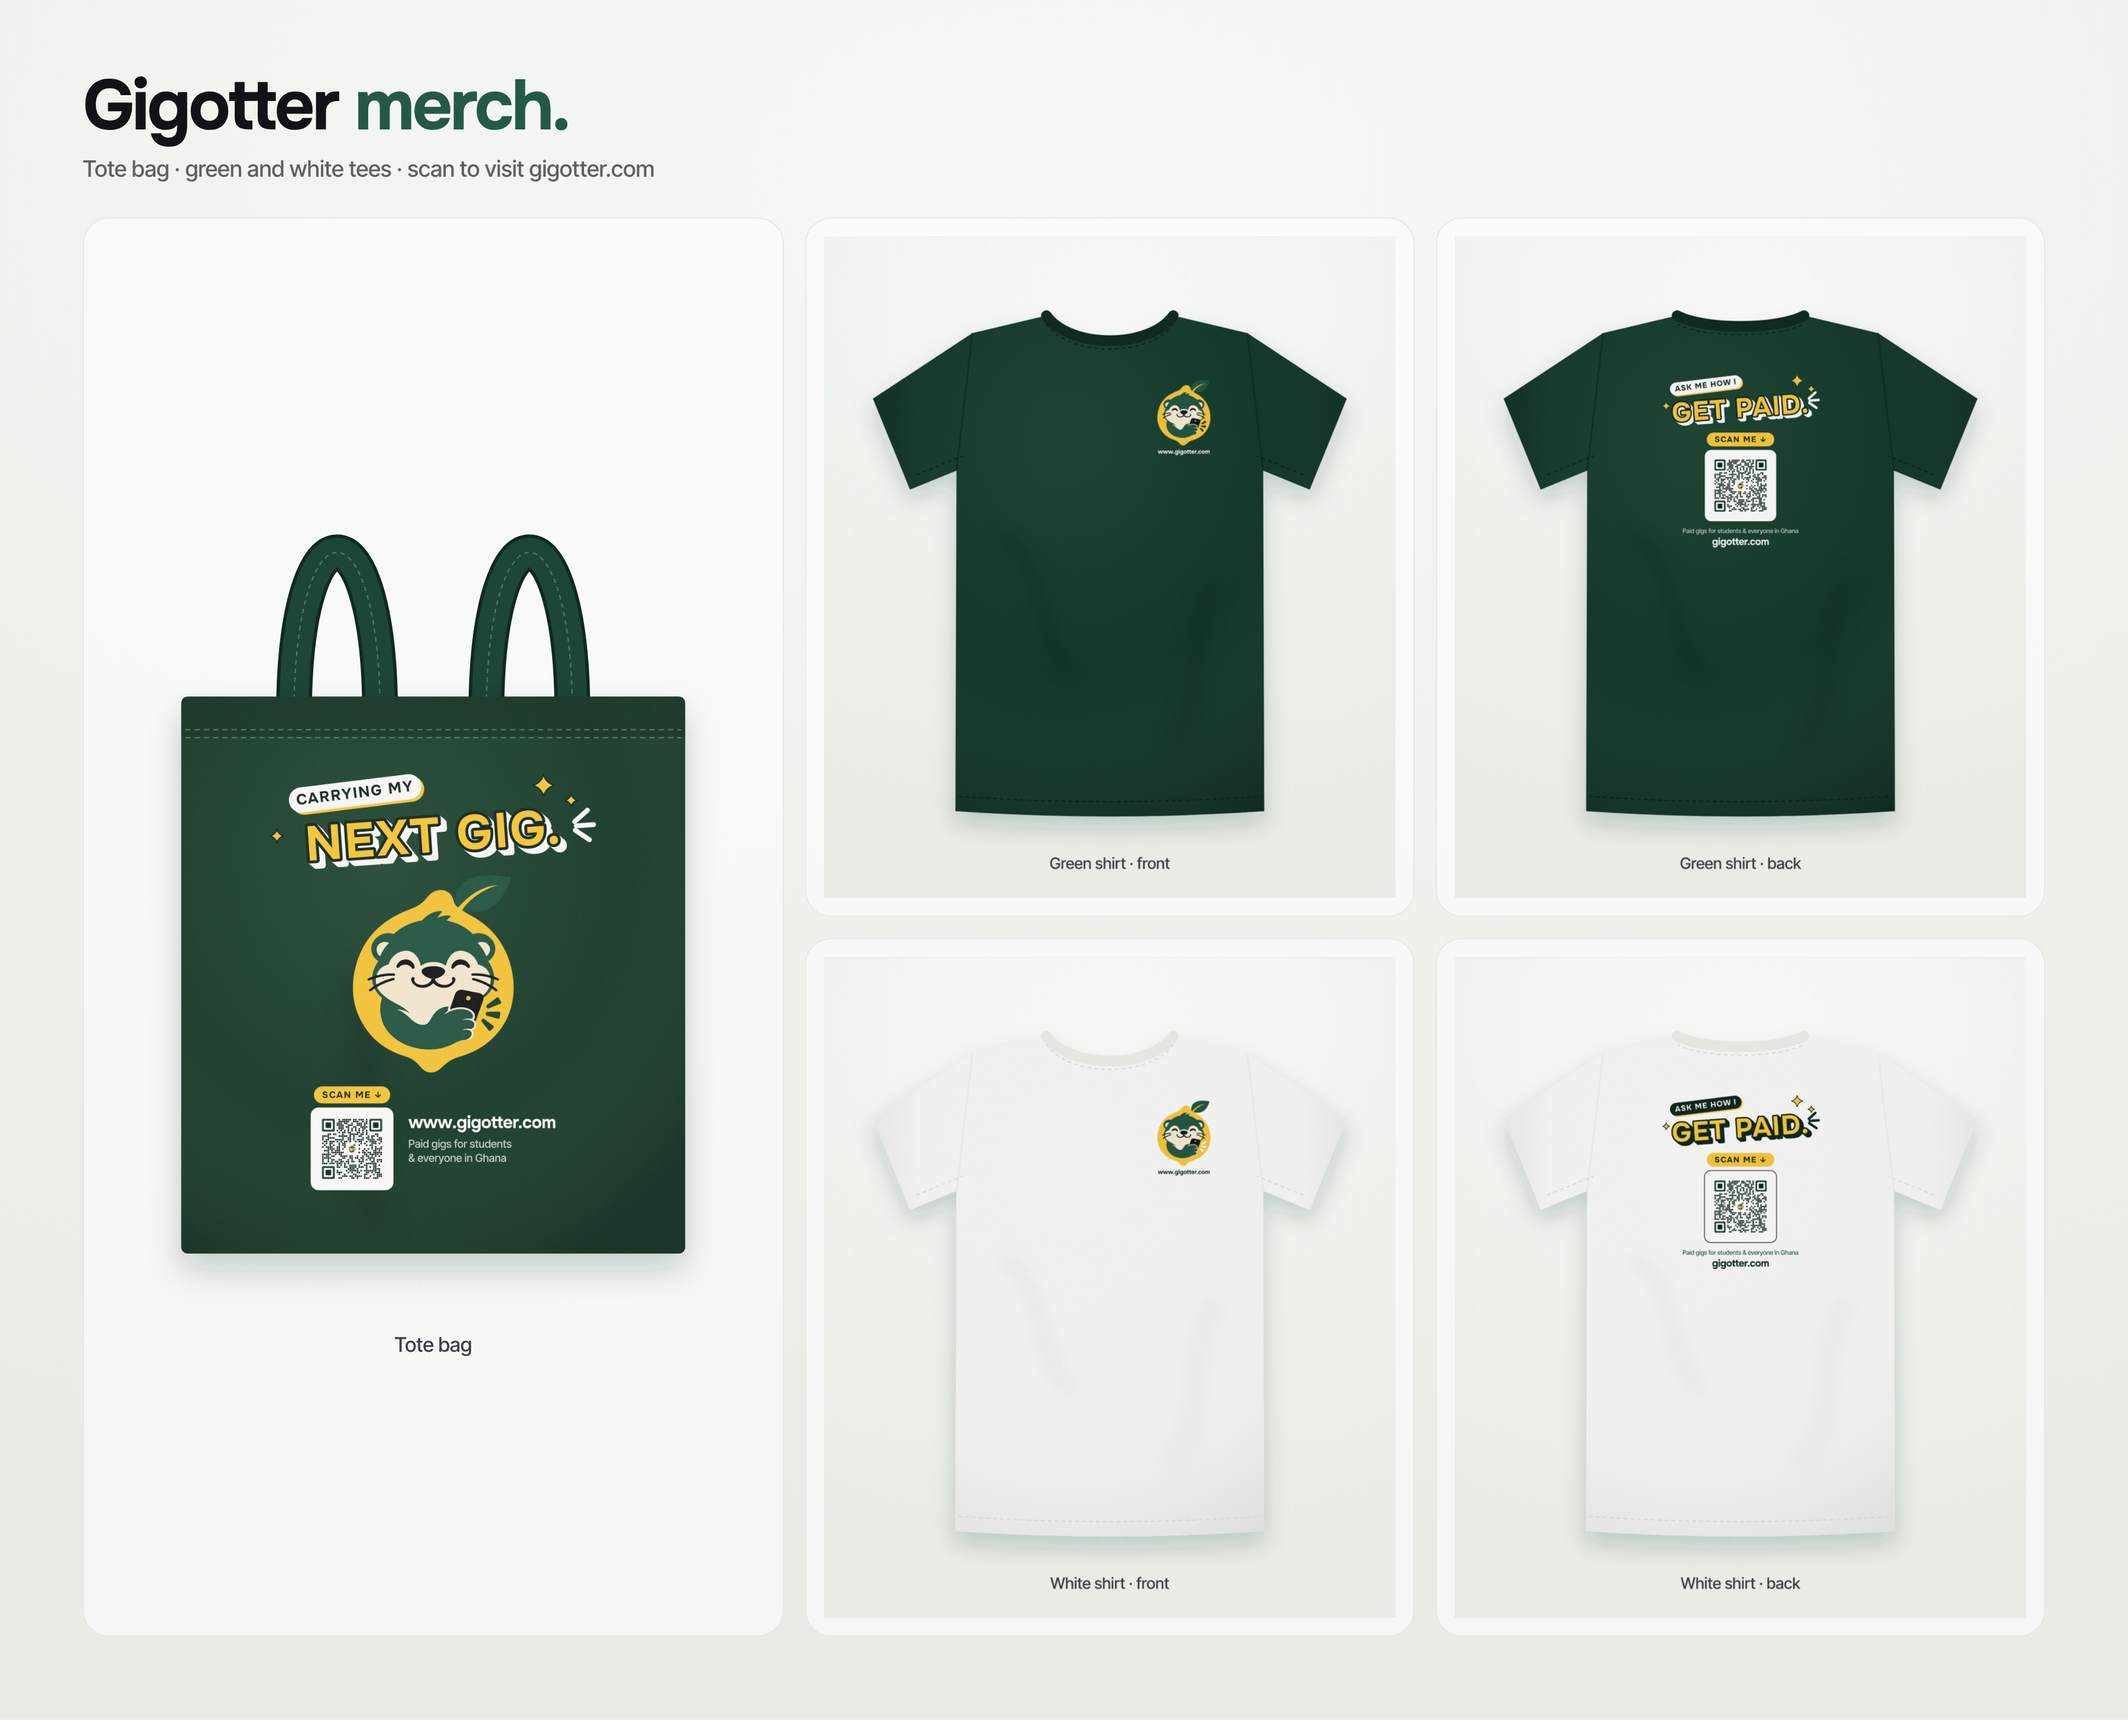
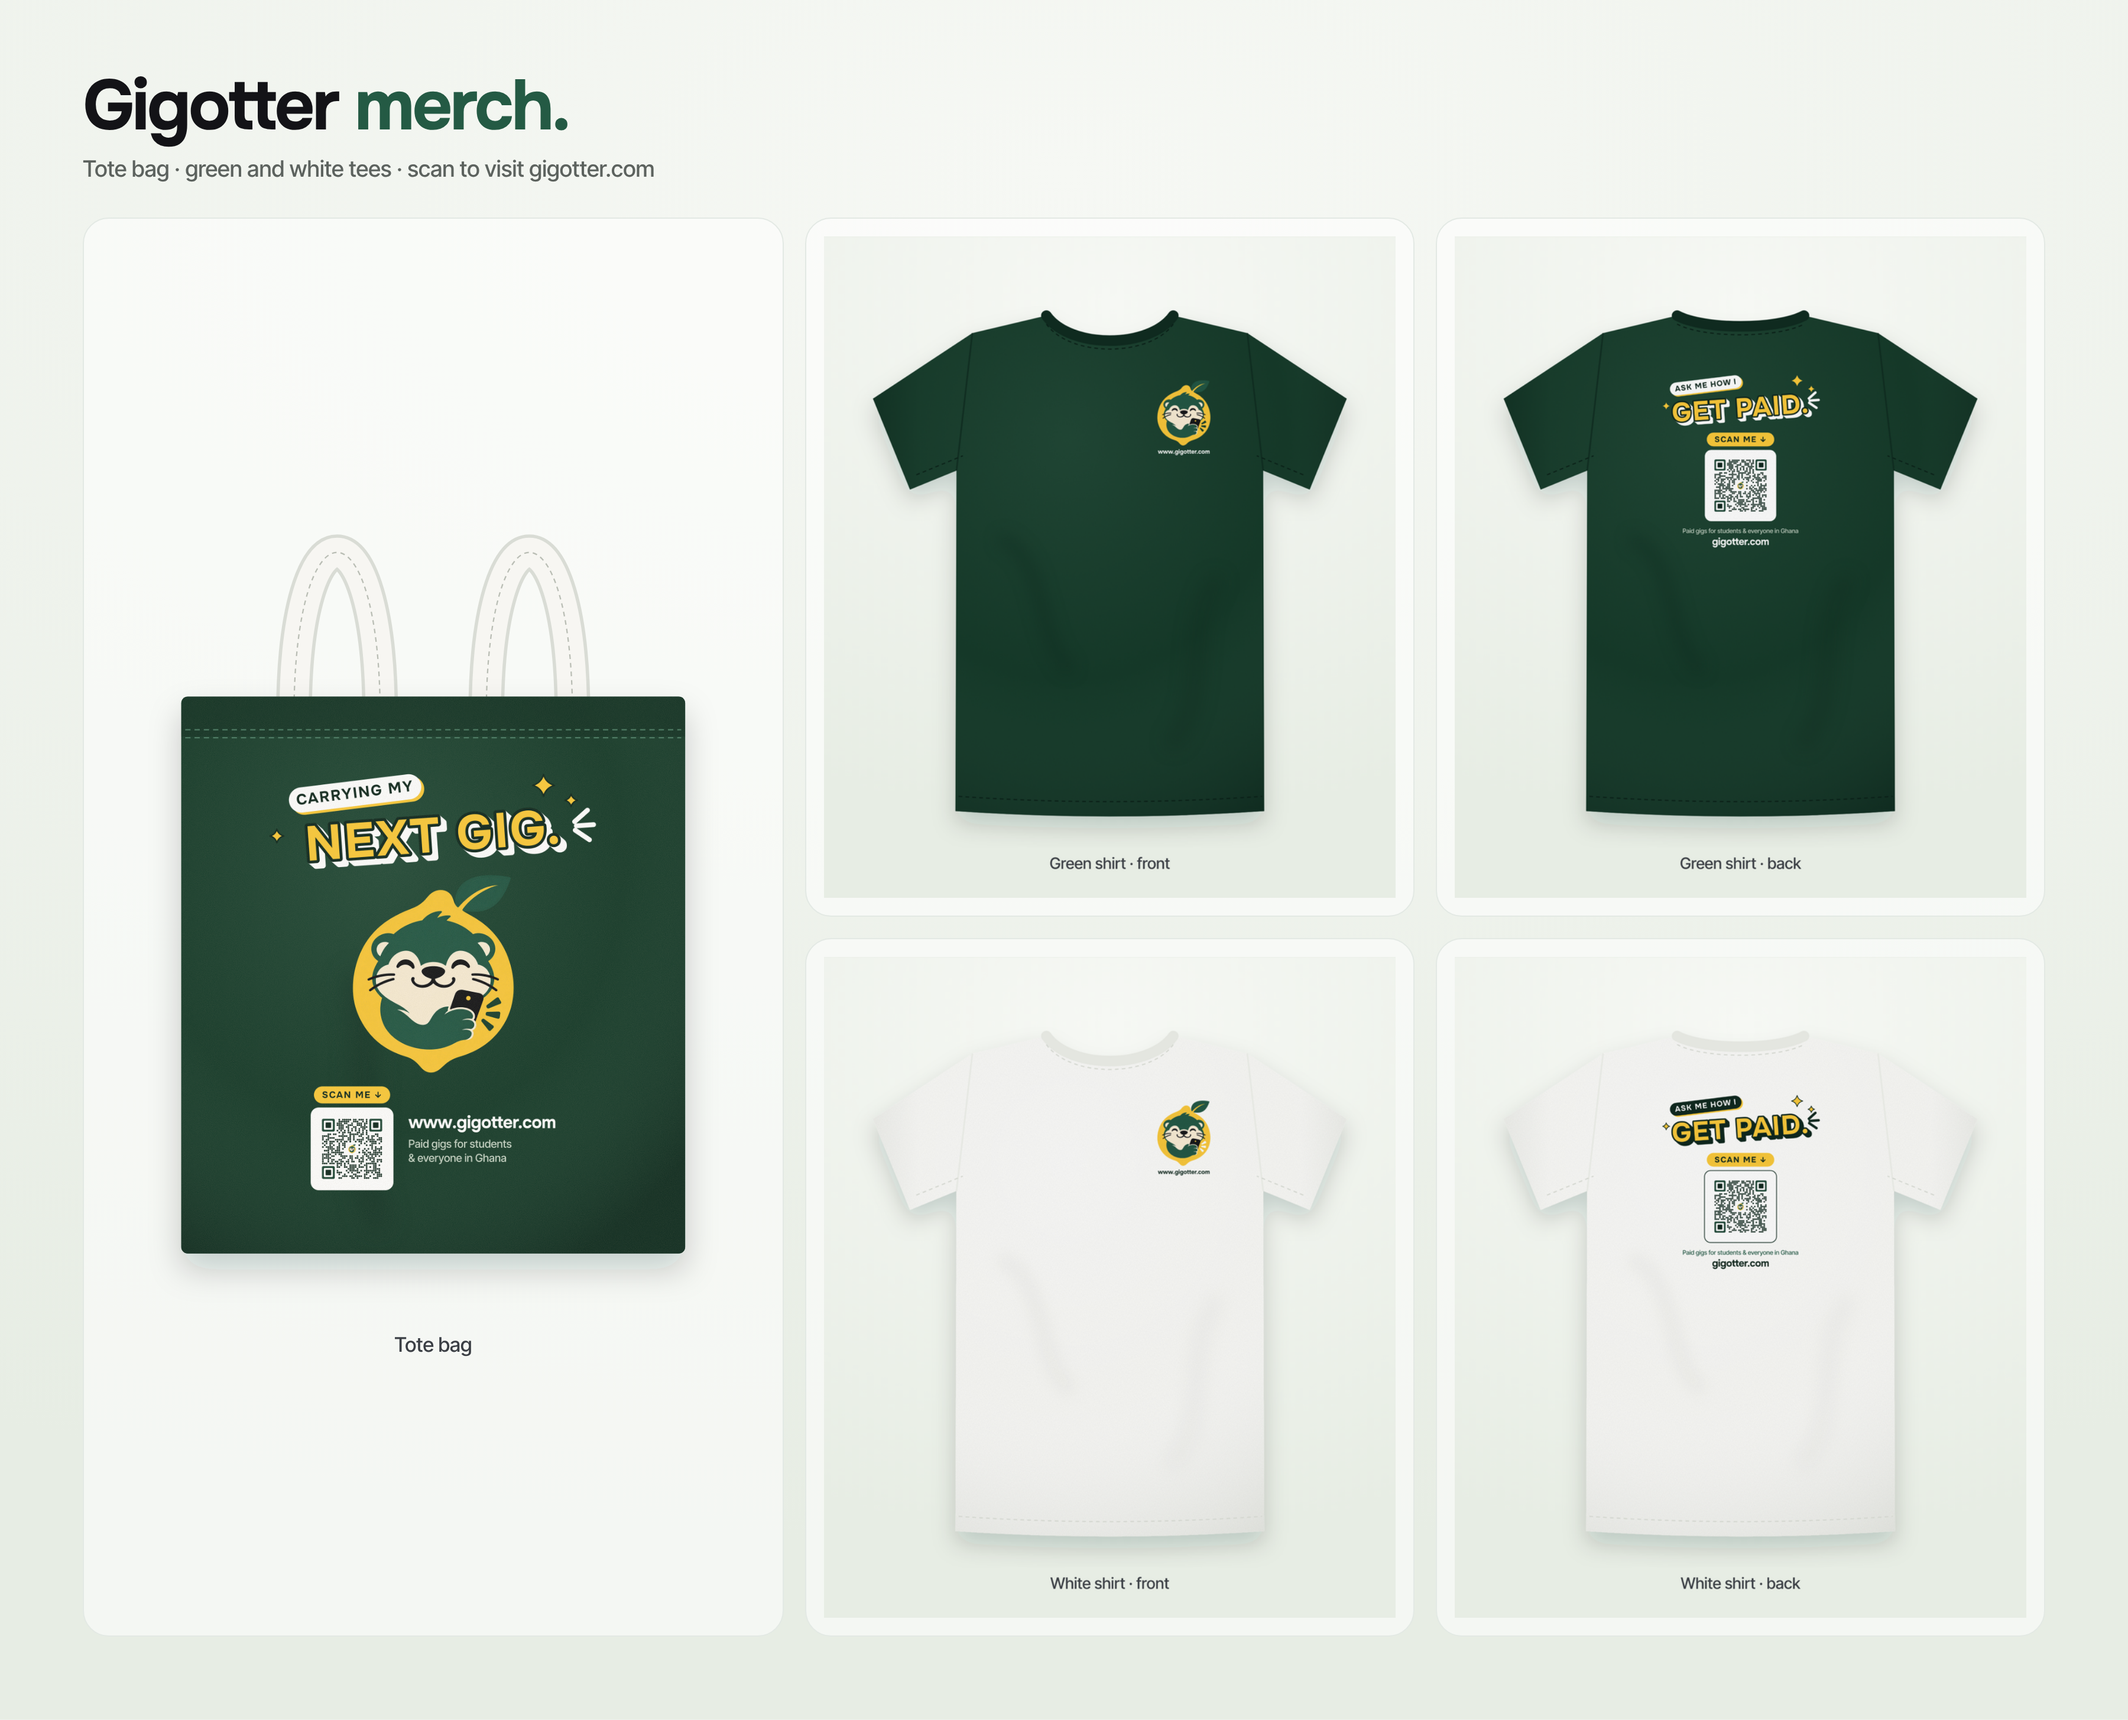
Tote mockup: white handles on the green bag
Claude-Session: https://claude.ai/code/session_01E2vaLUqDfRKS7n3VPqTwzA

Changed region(s): [[0.2178, 0.3093, 0.28, 0.4021], [0.1244, 0.3093, 0.1867, 0.4021]]

diff --git a/docs/brand/tote/build/mockup.py b/docs/brand/tote/build/mockup.py
@@ -16,7 +16,7 @@ ARTS = {k: uri(OUT / f'dtf-tote-{k}.png', 1300) for k in ('canvas', 'green')}
 U = 20                                   # units per cm: tote body 38 cm = 760 units
 X0, Y0, BW, BH = 120, 300, 38 * U, 42 * U
 BAGS = {'canvas': ('#ECE2CB', '#D6C9AB', '#F7F1E2', '#B9AB8B'), 'green': ('#173a2b', '#0f2a1f', '#2a5340', '#4E7A63')}  # body, shade, highlight, stitch
-H_GREEN, H_SHADE, H_STITCH = '#1C4635', '#10291F', '#4E7A63'   # green handles
+H_GREEN, H_SHADE, H_STITCH = '#F7F6F2', '#D9DCD5', '#B9BDB4'   # white handles
 
 def tote(uid, bag='green'):
     CANVAS, SHADE, HI, STITCH = BAGS[bag]; ART, ART_R = ARTS[bag]

diff --git a/docs/brand/tote/README.md b/docs/brand/tote/README.md
@@ -1,6 +1,6 @@
 # Gigotter tote bag: DTF print files
 
-**Recommended: deep green tote** (hides dirt, matches the green T-shirt) with **matching green handles**. Order "bottle green / dark green cotton canvas totes". A natural canvas version is kept as an option.
+**Recommended: deep green tote** (hides dirt, matches the green T-shirt) with **white handles**. Order "bottle green / dark green cotton canvas totes with white (contrast) handles". A natural canvas version is kept as an option.
 
 Printed on **one side**. Design: a tilted "CARRYING MY" sticker over a 3D "NEXT GIG.", the big otter logo, and a "SCAN ME" QR code to **https://gigotter.com** with www.gigotter.com and "Paid gigs for students & everyone in Ghana".
 
